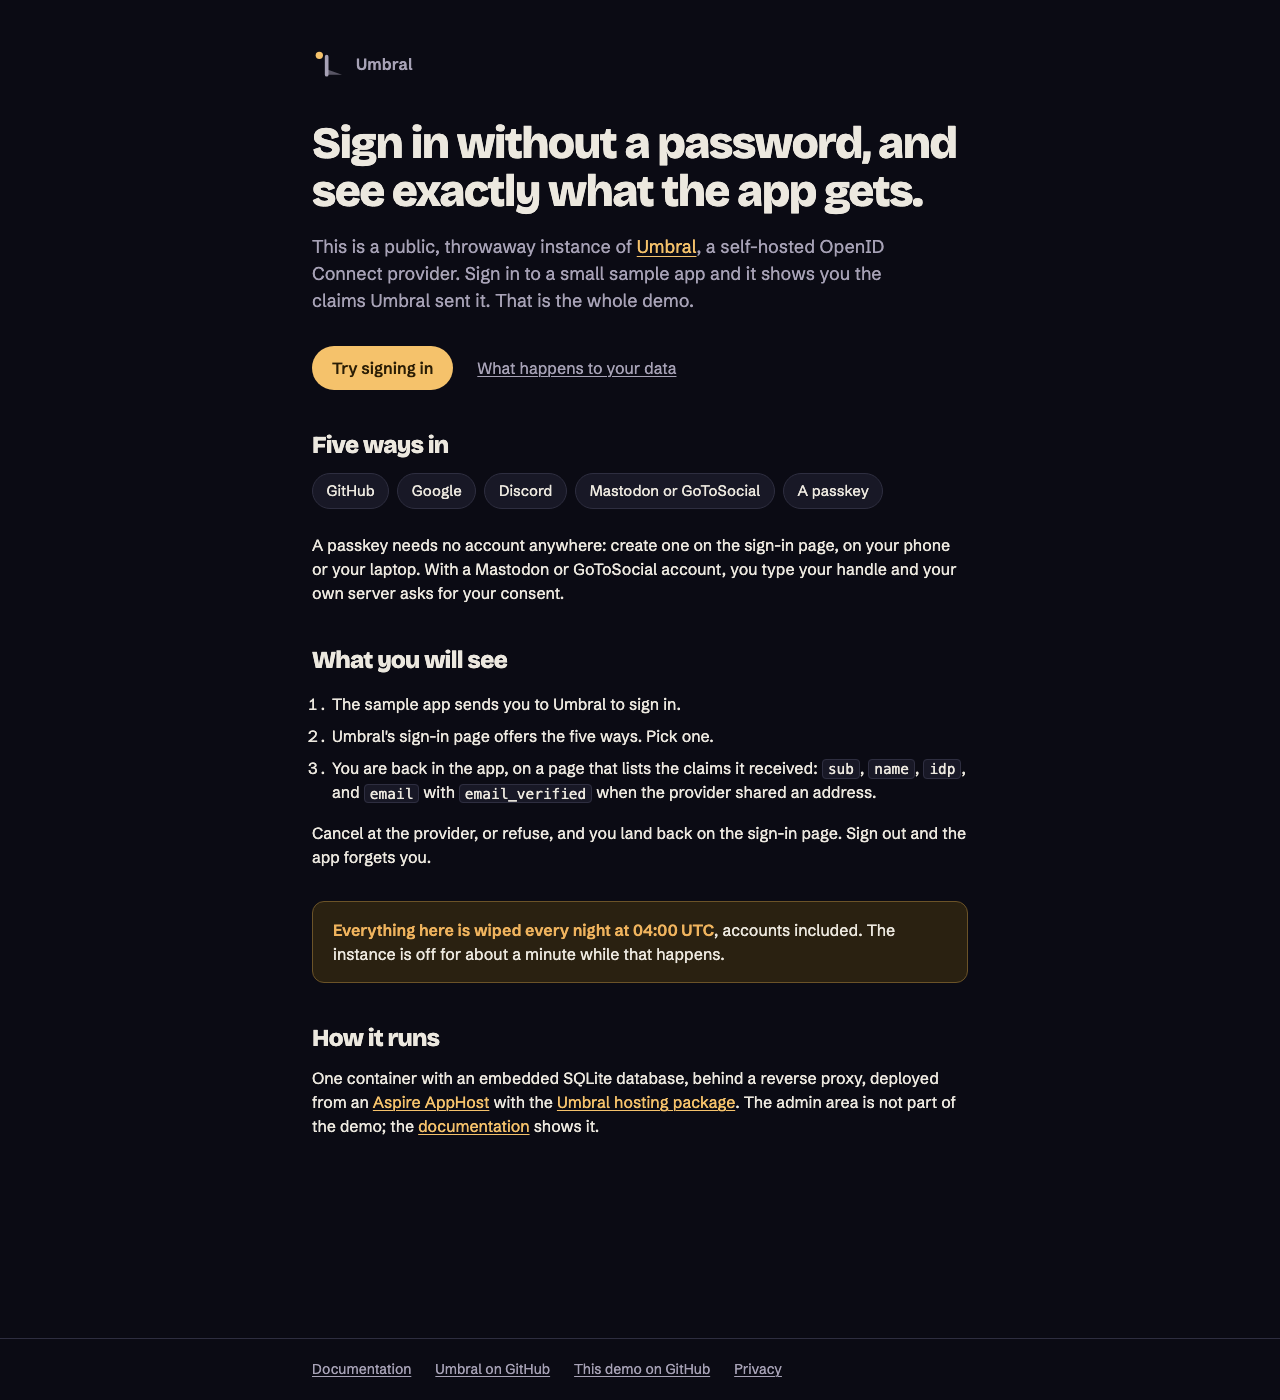
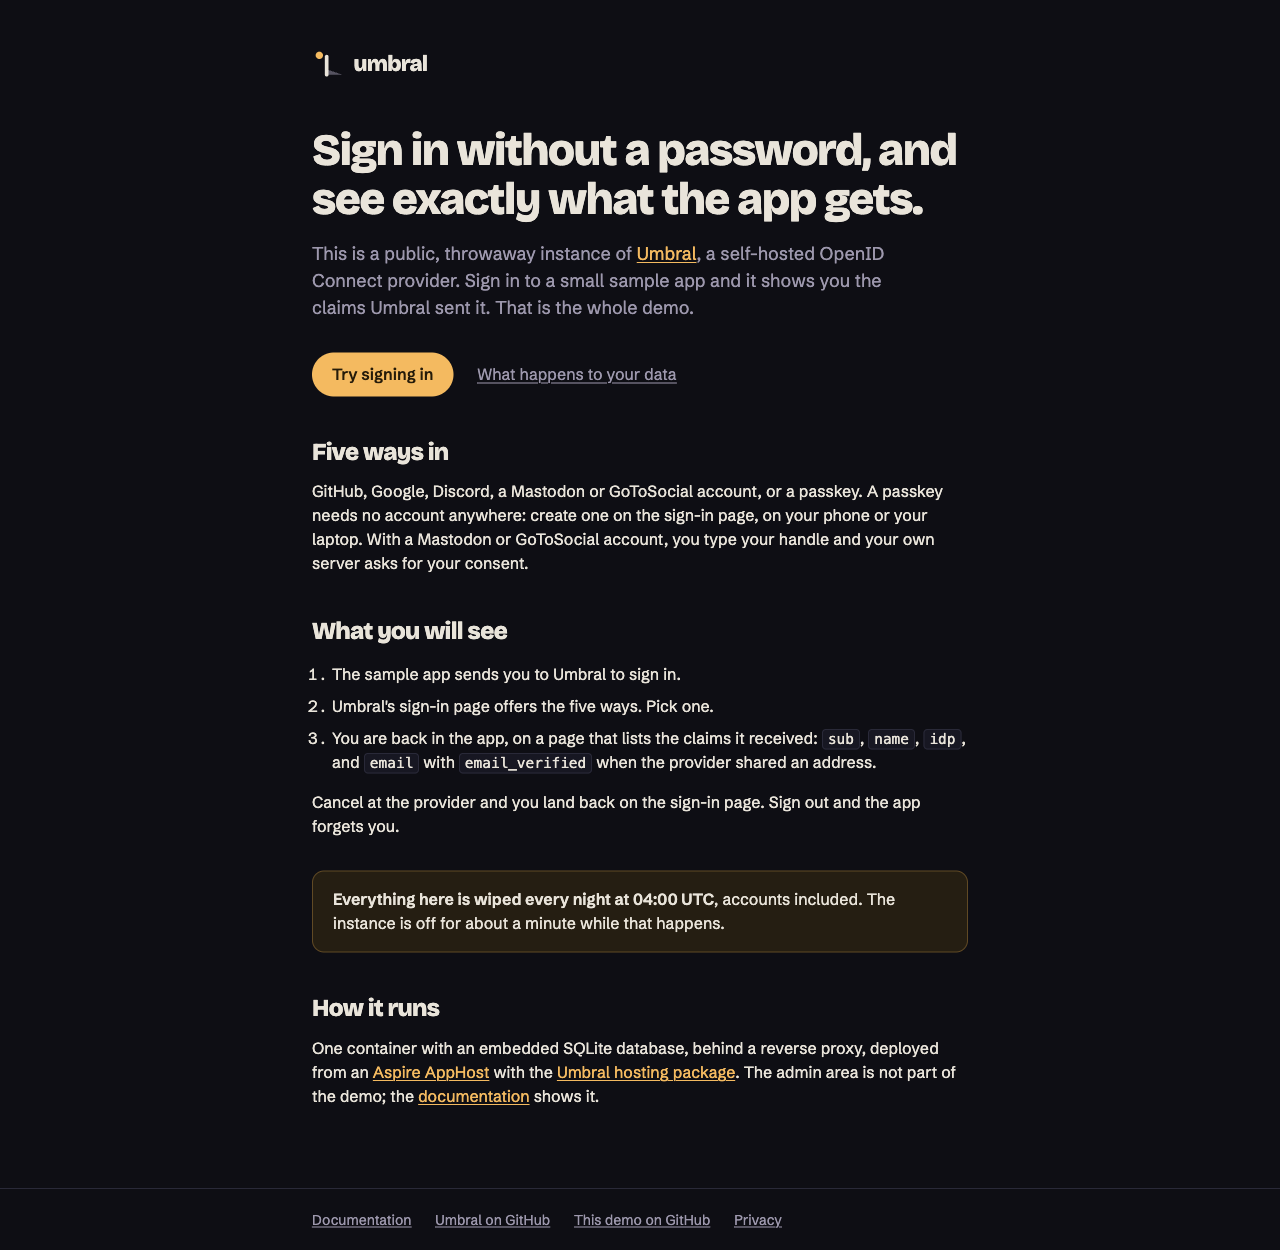
review(fzzx): design review, and the captures retaken after the three reviews' fixes

diff --git a/.alta/reviews/2026-11-11-umbral-demo/review-design.md b/.alta/reviews/2026-11-11-umbral-demo/review-design.md
@@ -1,0 +1,73 @@
+# Design review: the public demo's landing and privacy pages
+
+Task fzzx. Pages in `/Users/jjchiw/Documents/code4fun/umbral-demo` at `7efe66b`
+(`site/public/index.html`, `privacy/index.html`, `style.css`). Reviewed 2026-11-15 by the
+design reviewer from the two pages' markup, the stylesheet's tokens and three of the eight
+captures (`index-dark-desktop`, `index-light-phone`, `privacy-light-desktop`). `404.html` was
+not opened, and the pages were not run. Whether each privacy statement is true of the deployed
+instance is not something this review can check.
+
+The landing page is a small Persuade surface; the privacy page is Read. Both should carry
+Umbral's identity as PRODUCT.md binds it: the lowercase wordmark, the Gnomon in its own
+colours, the Umbra look in both themes.
+
+## Verdict
+
+**Not yet clear: three blocking items, three nits.** All are in `style.css` and the two
+lockups. The structure, the order and nearly all of the copy stand.
+
+## What is right
+
+- One column, short measure, one gold action. The page says what this is in its first
+  sentence and ends its lead with "That is the whole demo."
+- The reset is stated on the landing page before anyone signs in, in a warning-toned note,
+  and again on the privacy page with the weekly copy spelled out.
+- The privacy page answers what, how long, who else, in that order, in plain sentences, and
+  tells a Fediverse user what their own server will show them, including the double listing
+  after a reset.
+- No script, nothing from another host, fonts served by the site.
+- Dark scheme: the tokens are the product's.
+
+## Blocking
+
+1. **The light scheme is derived, not the product's.** Use the light table from
+   `src/Umbral/Assets/tailwind.config.js`: page `#f4f1ea`, container `#faf7f0`, high `#ebe5d8`,
+   highest `#e3ddd0`, text `#17151f`, muted `#5f5a6b`, outline-variant `#ddd6c8`, link gold
+   `#8a5a00`, warning text `#6b4500` on `#fbefd6` with border `#e2c27f`. Your gold for links is
+   already right; the surfaces and text are close but not the same.
+2. **The light button is a brown fill.** DESIGN.md's Fill Pair rule: in the light theme the
+   primary button is ink `#17151f` with gold text `#f5c26b`; `#8a5a00` is for links. Split the
+   variable: `--button-fill` / `--button-text` (dark `#f5c26b` / `#2a1d05`; light `#17151f` /
+   `#f5c26b`), and make the hover a slight brighten in both, not a second colour.
+3. **The lockup is not Umbral's.** Two things in `.mark`:
+   - The wordmark is the text face in muted grey. It is "umbral": Bricolage Grotesque 800,
+     -0.035em, lowercased by CSS, in the text colour (so the markup keeps "Umbral"). On the
+     privacy page, "umbral" as the wordmark and "demo" after it in the text face, muted.
+   - The Gnomon's colours are written into the SVG, so the light page shows the dark theme's
+     pale sun and shadow on paper. Give the parts classes and set them per scheme, as the
+     product does: dark sun `#f5c26b`, shadow `#a7a2b6` at 0.5, upright `#ece8df`; light sun
+     `#b8801f`, shadow `#5f5a6b` at 0.4, upright `#17151f`.
+
+## Nits
+
+4. **The five ways read as buttons.** The pills under "Five ways in" look pressable and do
+   nothing. Make them a plain sentence or a plain list: "GitHub, Google, Discord, a Mastodon or
+   GoToSocial account, or a passkey."
+5. **Code is in the system mono.** The product's third face is Spline Sans Mono. For six short
+   tokens the saving is fair; if you keep the system face, say so in `notes.md` as a choice.
+6. **Copy, three small points.** (a) "Cancel at the provider, or refuse, and you land back on
+   the sign-in page": "cancel" and "refuse" are the same act; "Cancel at the provider and you
+   land back on the sign-in page." (b) The note's bold sentence carries the whole warning
+   colour; keep the bold, in the text colour, and let the note's tone do the warning, as the
+   product's alerts do. (c) The privacy lead's "It is short because there is little to tell."
+   is the one sentence that performs; the page already shows it.
+
+## The copy's tone
+
+It reads as Umbral's docs do: full sentences, what it is and what it is not, the next action
+stated. Nothing to change beyond nit 6.
+
+## Re-check
+
+`index` and `privacy` in the light scheme at desktop and phone, and `index-dark-desktop` for
+the lockup. One look.
